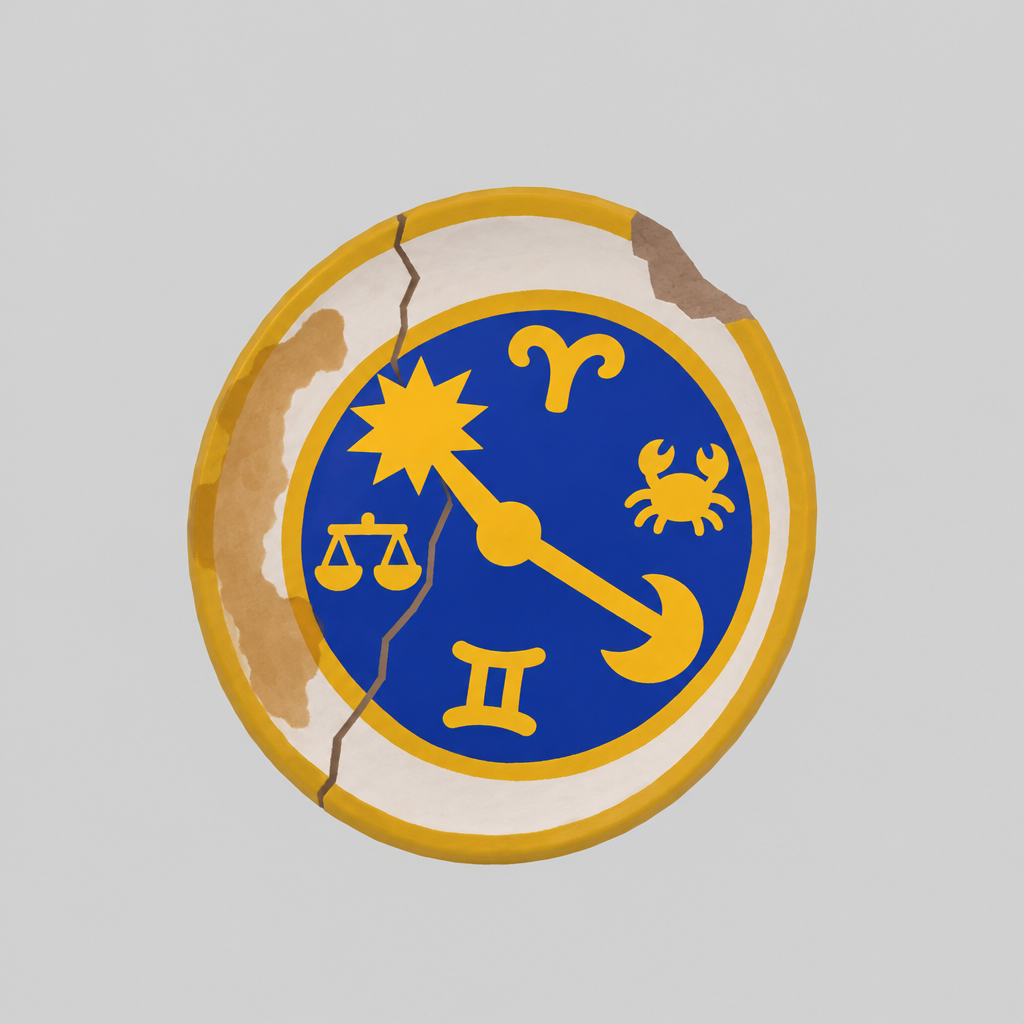
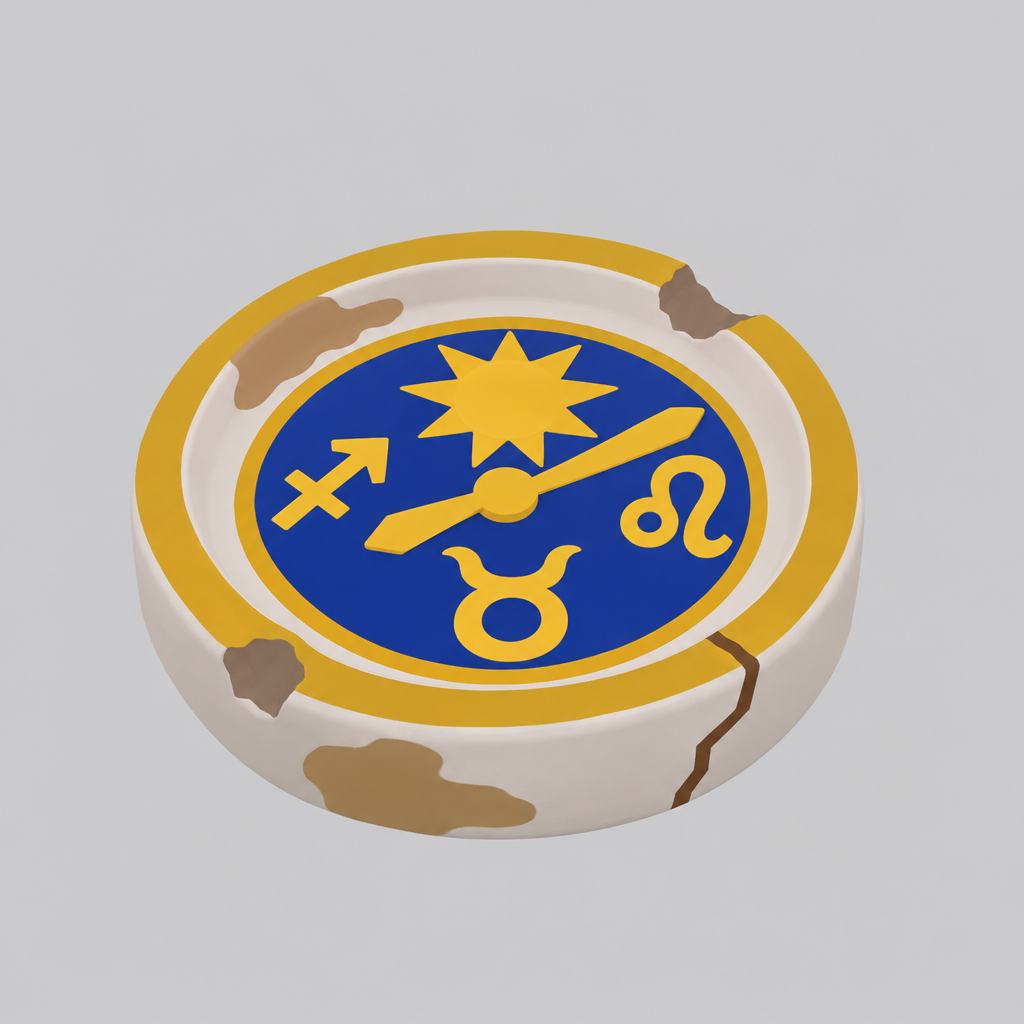
art(debaucheryville): batch 11 refs round 2, thick tilted plate and clean egg Hamagotchi (0 credits, asset team)
Claude-Session: https://claude.ai/code/session_01Rk2Ri3vAu7TBhRadSU9CbJ

Changed region(s): [[0.125, 0.1562, 0.8438, 0.8438]]

diff --git a/dev/asset_team/icon_refs/hamagotchi_consolation_prompt.md b/dev/asset_team/icon_refs/hamagotchi_consolation_prompt.md
@@ -1,8 +1,8 @@
 # hamagotchi_consolation (Hamagotchi Virtual Hamster Pal): 3D icon reference prompt
 
-Firefly home to Generations, GPT Image 2.6 Sunburst, 1:1, Quality High. Rounds: 1. Margins (Pillow, percent): L25.0 R27.8 T20.8 B19.1.
+Firefly home to Generations, GPT Image 2.6 Sunburst, 1:1, Quality High. Rounds: 2 (round 1 failed A3 on buildability). Margins (Pillow, percent): L33.2 R33.9 T29.8 B26.2.
 Canon: `design/items/hamagotchi_consolation_item.md` line 18 (knockoff Tamagotchi, crude printed decal of Hamstradamus's face on the shell, corroded solid buttons, waterlogged, LCD stuck on a faint pixelated hamster ghost outline) plus line 3; Hamstradamus look (turbaned hamster) from `design/worlds/debaucheryville/npcs/Cirque_du_Shady/hamstradamus.md` Appearance table. The doc names no shell colour; teal is carried over from the earlier pixel prompt (`dev/asset_team/prompts/hamagotchi_consolation_prompt.md`) and is a gap for the author to confirm. Pixel-art redo; the old prompt wrongly drew a bearded mystic, corrected to the hamster.
-Shows: A fat lumpy egg-shaped teal virtual pet with a fused top lug (no chain), big square grey-green LCD with a pale hamster-ghost silhouette, three chunky corroded buttons (two rust-orange, one green), a big hamster-in-turban face decal on the lower shell, water-stain tide mark, bulge and dent.
+Shows: a smooth symmetrical egg toy, no top nub, one even teal shell with three broad flat brown-yellow grime patches, big flat grey-green screen with a simple pale ghost-hamster blob, three big orange buttons, a flat decal of a tan round face in a purple turban.
 Lettering: No lettering. The surface carries a mottled rust texture that is finer than ideal; flagged for the A3 reviewer.
 
-Generate an image: A single cheap, over-the-top knockoff virtual-pet toy, drawn SMALL in the middle of a big empty flat light-grey square (central 60 percent of frame). A chunky egg-shaped plastic handheld virtual pet toy, standing upright, shown from the front, a fat solid lumpy egg body with a thick solid rounded lug fused to the top (no chain, no cord, no ring). Dull faded teal plastic shell in one even matte colour, waterlogged and grubby: a broad flat brown-yellow water-stain tide mark across the lower half, a big flat swollen bulge on one side, a sagging dented corner. In the upper middle a big square LCD window in flat murky grey-green, showing one big simple faint pale ghost-shaped hamster silhouette floating in the middle, huge and simple. Below the screen, three big chunky round button bumps in flat crusty rust-orange and green, fused solid to the shell. On the lower shell one large crude flat printed decal of a cartoon hamster face wearing an oversized glittering turban, blobby and smudged, big bold shapes only. Seedy and grubby, bold chunky shapes in clear flat colour blocks. Stylized 3D toy render, matte opaque surfaces. No text, no letters, no numbers, no fine noise, no speckle, no transparency, no thin parts, no hands, no people, no shadows. Light grey background. Square image.
+Generate an image: A single cheap, over-the-top knockoff virtual-pet toy, drawn SMALL in the middle of a big empty flat light-grey square (central 60 percent of frame). A clean, smooth, perfectly symmetrical egg-shaped handheld virtual pet toy, standing upright, seen straight from the front, with a crisp clean silhouette and NO nub, NO loop, NO lug and NO chain on top: just a plain smooth egg. The whole shell is ONE even flat matte teal colour, worn only by three broad flat grime patches in dull brown-yellow (one big patch across the bottom, one on the left side, one near the top right), no mottling, no noise, no texture. A big square LCD screen in the upper middle in flat murky grey-green, containing one big simple flat pale ghost-hamster silhouette shaped like a round blob with two round ears and a wavy bottom, no face lines, no whiskers. Below the screen three BIG distinct round chunky buttons in a contrasting flat bright orange, each as large as a thumb, standing proud of the shell. On the lower shell one big flat printed decal: a simple round tan hamster face as a flat circle with two dot eyes and a small dot nose, wearing a flat purple turban shape on top, only big flat shapes, no whiskers, no thin lines, no trim, no sparkles, no gems. Stylized 3D toy render, matte opaque surfaces. No text, no letters, no numbers, no speckle, no transparency, no thin parts, no hands, no people, no shadows. Light grey background. Square image.

diff --git a/dev/asset_team/icon_refs/commemorative_plate_prompt.md b/dev/asset_team/icon_refs/commemorative_plate_prompt.md
@@ -1,8 +1,8 @@
 # commemorative_plate (Clock Commemorative Plate): 3D icon reference prompt
 
-Firefly home to Generations, GPT Image 2.6 Sunburst, 1:1, Quality High. Rounds: 1. Margins (Pillow, percent): L18.3 R20.2 T18.2 B15.6.
+Firefly home to Generations, GPT Image 2.6 Sunburst, 1:1, Quality High. Rounds: 2 (round 1 failed A3 on buildability). Margins (Pillow, percent): L12.8 R15.7 T22.5 B18.1.
 Canon: `design/worlds/debaucheryville/items/astronomical_cockup_square_items.json` lines 64-87 ("Cheap ceramic plate with clock image. Obviously overpriced garbage."); clock look from `design/worlds/debaucheryville/astronomical_cockup_square.md` line 78 (massive blue and gold dial with zodiac symbols, sun/moon indicators, ornate hands); vendor pitch "600 years of history" in `npc_merchandise_vendor.md` line 99.
-Shows: A thick round white ceramic plate, face-on and slightly tilted, centred blue disc with gold ring, big gold zodiac blobs, sun marker and two gold hands, thick gold rim band, chipped rim corner, brown grease stain, crack, off-centre print.
+Shows: a thick, heavy white ceramic plate with a fat rounded rim at a 30 degree tilt so the thickness reads, flat blue-and-gold clock dial (sun, hands, zodiac blobs), gold rim band, two bold rim chips, one thick dark crack line, broad flat brown stains.
 Lettering: No lettering.
 
-Generate an image: A single cheap, over-the-top tourist-trap souvenir, drawn SMALL in the middle of a big empty flat light-grey square (central 60 percent of frame). A commemorative souvenir plate standing upright on its edge, shown face-on and slightly tilted, as a thick, chunky, solid round ceramic disc with a clearly thick rim. Cheap glossy-free matte white ceramic with a broad flat bold blue-and-gold astronomical clock dial painted in the centre: a big blue disc with a gold ring, a few big simple gold zodiac blobs around it, a big gold sun-and-moon marker and two chunky gold hands, all huge simple flat shapes, no tiny detail. A thick flat gold band around the rim. Seedy and grubby: one large flat chipped-off corner of the rim showing grey-brown clay, a broad flat brown grease stain across one side, a big flat crack line wedge, and a sagging crooked off-centre print. Bold chunky shapes in clear flat colour blocks. Stylized 3D toy render, matte opaque surfaces. No text, no letters, no numbers, no fine noise, no speckle, no transparency, no hands, no people, no stand, no shadows. Light grey background. Square image.
+Generate an image: A single cheap, over-the-top tourist-trap souvenir, drawn SMALL in the middle of a big empty flat light-grey square (central 60 percent of frame). A commemorative souvenir plate seen from a three-quarter view tilted about 30 degrees, so the thick edge of the plate is clearly visible: a THICK, heavy, solid round ceramic plate with a chunky rounded fat rim, like a thick slab, about two fingers deep, with a flat bold underside edge. Matte white ceramic with one broad flat blue-and-gold astronomical clock dial printed in the centre: a big blue disc, a gold ring, three big simple gold zodiac blobs, one big gold sun shape, two chunky gold hands, all huge simple flat shapes. A thick flat gold band around the rim top. Seedy and grubby, shown only as bold chunky cues: two big chunky chips bitten out of the rim showing grey-brown clay, one thick crack drawn as a solid dark-brown line across one side, and two broad flat brown grease-stain areas. No hairlines, no fine edges, no tiny detail. Stylized 3D toy render, matte opaque surfaces. No text, no letters, no numbers, no speckle, no transparency, no hands, no people, no stand, no shadows. Light grey background. Square image.
